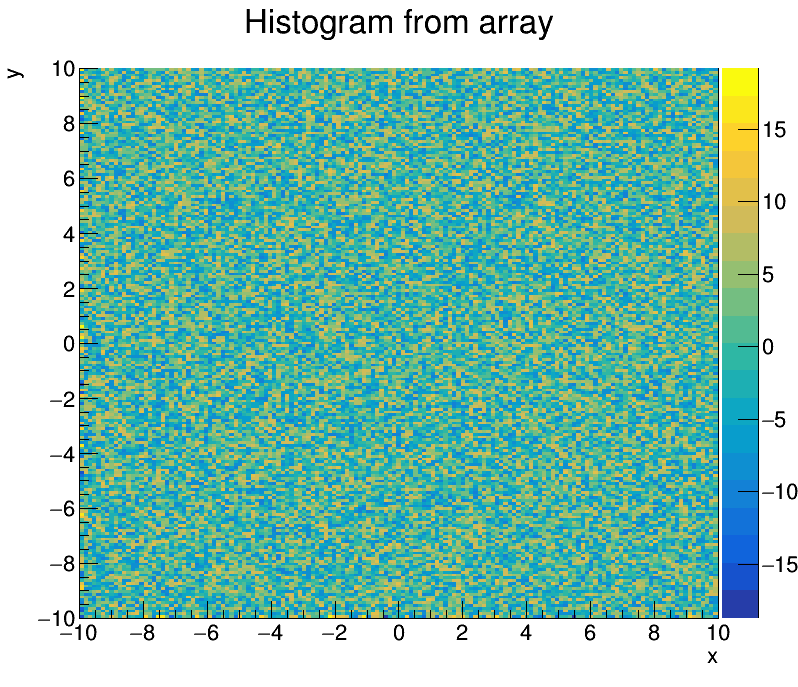
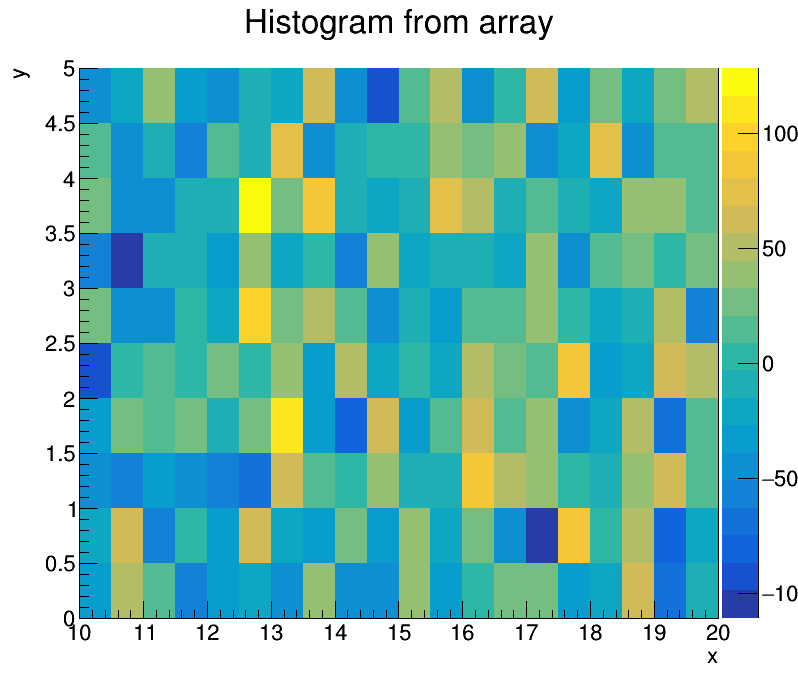
changed bin sizes

diff --git a/root/readArrayFunction.py b/root/readArrayFunction.py
@@ -10,14 +10,14 @@ import os
 
 
 #load grid header file
-gROOT.LoadMacro('ExampleGrid.h+')
+gROOT.LoadMacro('../gridExamples/ExampleGrid.h')
 from ROOT import Grid
 
 def graphGrid(xmax, xmin, dx, ymax, ymin, dy, grid, imgNum) :
 
     #initialise variable
-    nxbin=int(np.sqrt(grid.nX()))
-    nybin=int(np.sqrt(grid.nY()))
+    nxbin=int(grid.nX()*dx)
+    nybin=int(grid.nY()*dy)
     print "nxbin = %d" %nxbin
     #comes from a histogram bin rule
     #(on wiki need to find better source)
@@ -67,12 +67,12 @@ def graphGrid(xmax, xmin, dx, ymax, ymin, dy, grid, imgNum) :
 
     return 0
 
-#initialise graph axes
+#initialise graph axes (these are global variables)
 g_dx=0.2
 g_dy=0.1
 
 #define array as a grid
-array = Grid(500,500,g_dx,g_dy)
+array = Grid(100,100,g_dx,g_dy)
 
 print "Initialised empty Grid"
 #fill array with random numbers
